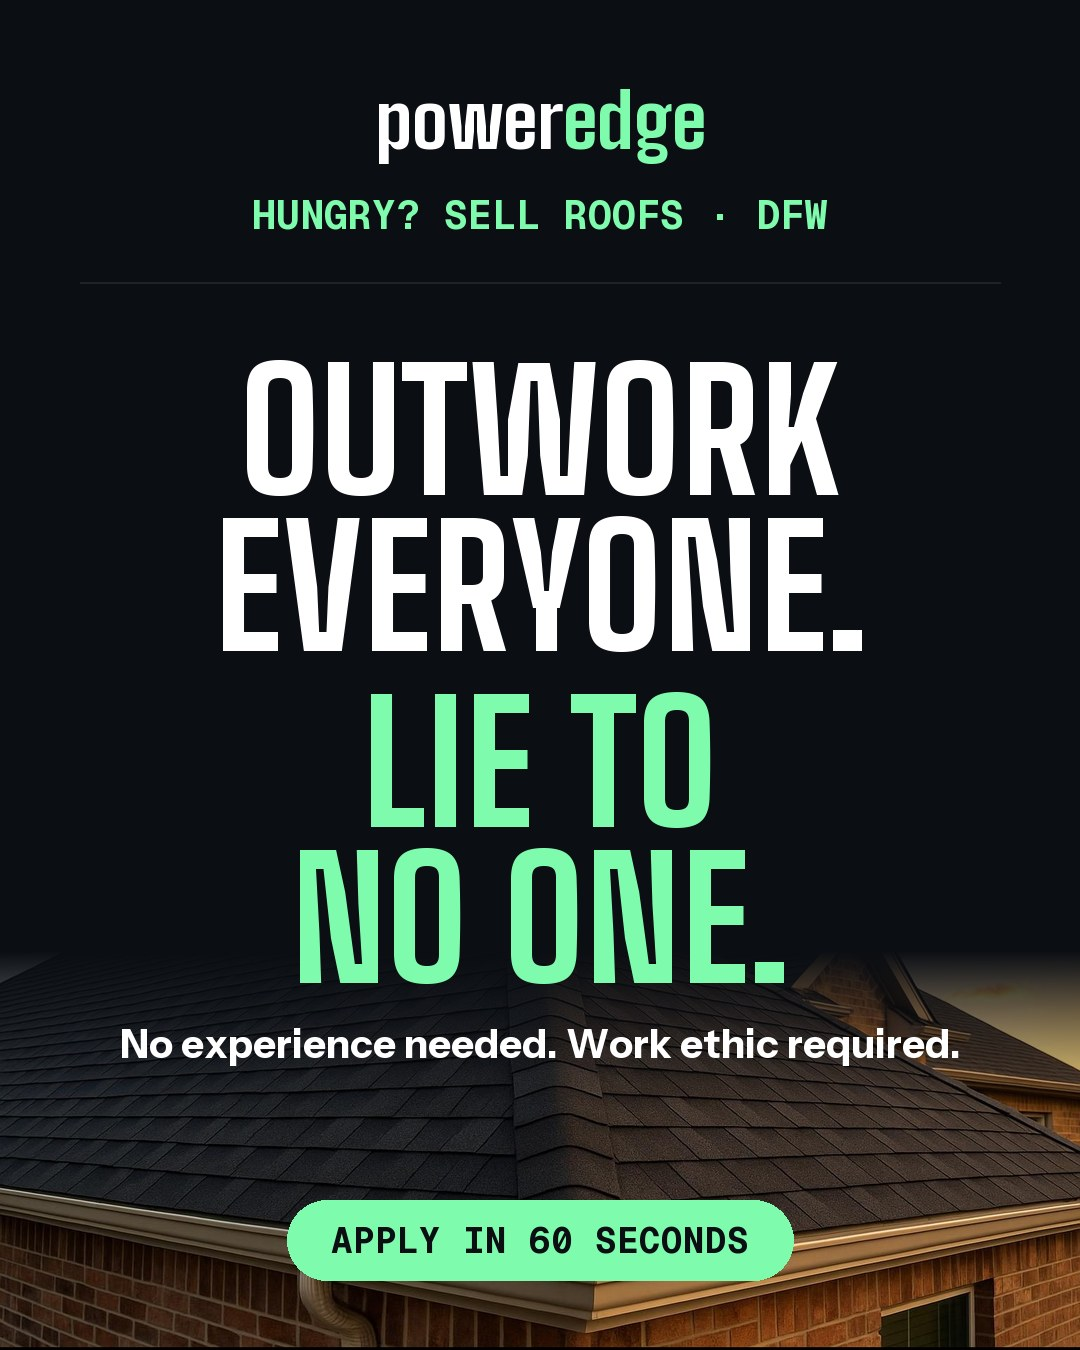
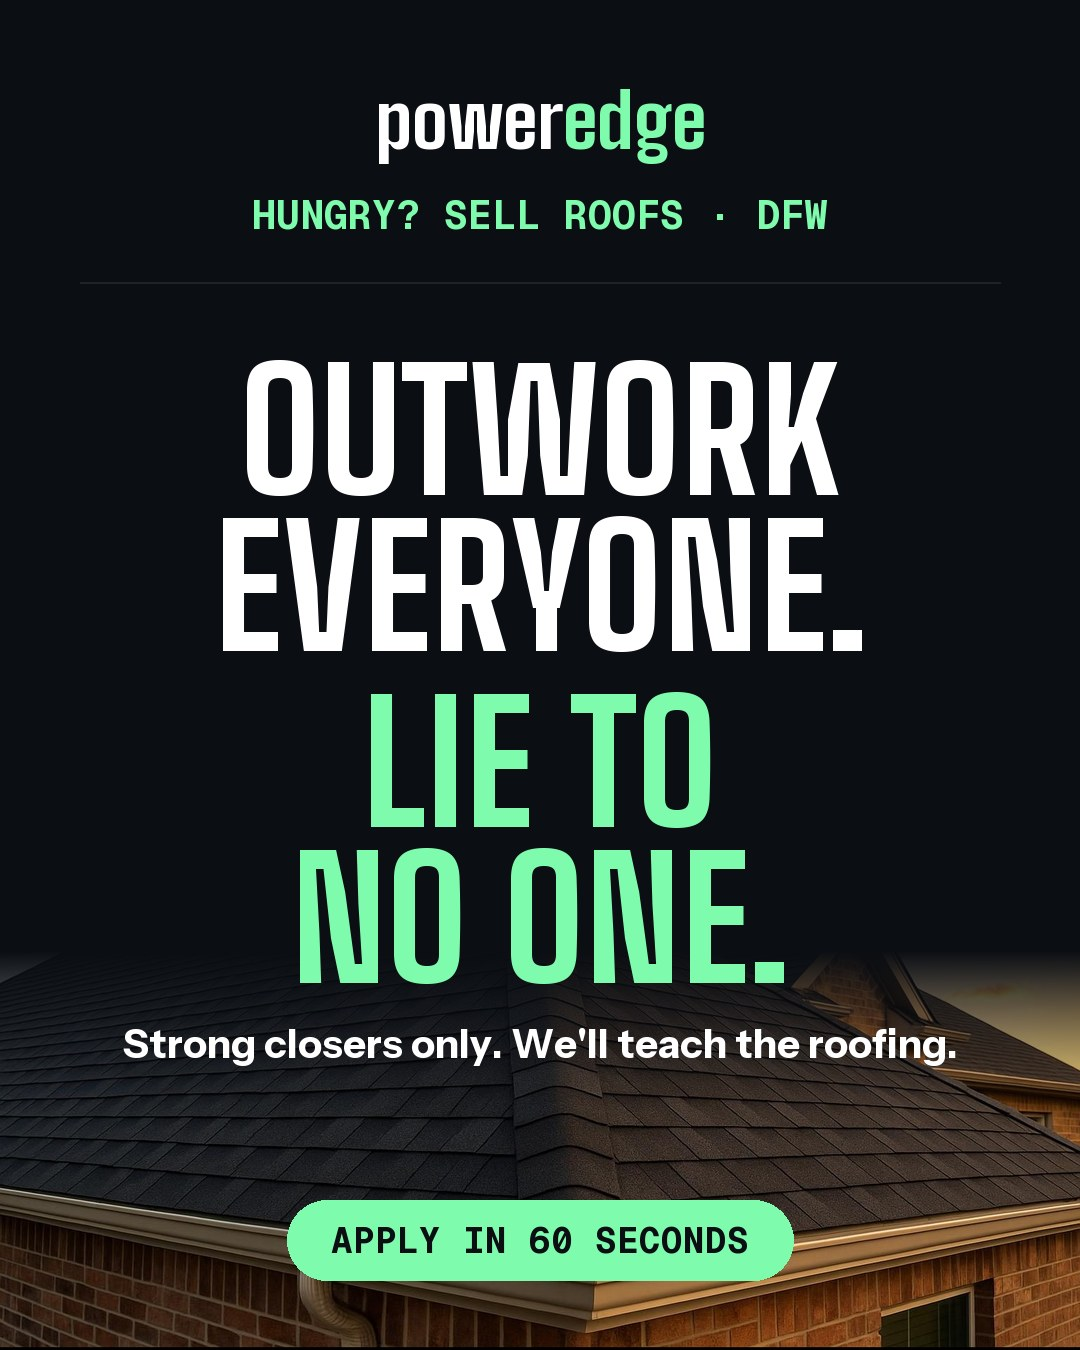
Recruiting bar: strong salespeople required (experience preferred)
Replaces "no experience needed / hungry rookies get trained" across the hype
creative, JD, FB post, and /careers FAQ.

Changed region(s): [[0.0917, 0.7467, 0.8861, 0.8089]]

diff --git a/app/careers/page.tsx b/app/careers/page.tsx
@@ -29,7 +29,7 @@ const faqs = [
   },
   {
     q: "Do I need experience?",
-    a: "Experience helps and pays more, but we'll train hungry closers. What matters most: work ethic, a vehicle, and the drive to knock.",
+    a: "This is a job for strong salespeople. Roofing experience is a plus but not required — if you've closed in solar, pest, alarms, or anywhere else, we'll teach you the roofing fast. Sales experience moves you to the front of the line.",
   },
 ];
 

diff --git a/print/RECRUITING-KIT.md b/print/RECRUITING-KIT.md
@@ -4,54 +4,45 @@ All roads lead to **poweredgetx.com/careers** (60-second apply, no résumé). Ap
 ---
 
 ## 1. Indeed / ZipRecruiter job post (full description)
-**Title:** Storm Restoration Sales Representative (Roofing) — Commission + Per-Roof Floor, Paid Weekly · Dallas–Fort Worth
-
+**Title:** Roofing Sales Representative, Storm Restoration (Weekly Pay)
+**Pay field:** $60,000 - $180,000 a year · Commission
 **Job type:** Contract (1099) · Commission · Full-time or part-time
-**Location:** Dallas–Fort Worth metroplex (field-based)
+**Location:** Dallas-Fort Worth metroplex (field-based)
 
-### About PowerEdge
-PowerEdge is a licensed and insured Dallas–Fort Worth storm-restoration roofing company. We run four crews with capacity for roughly 100 roofs a month, hold a 4.7★ Google rating, and we're built around one idea most storm shops only pretend to have: do it by the book and tell homeowners the truth — even when the truth is "your roof is fine." That reputation is what keeps your customers referring and your commissions clean.
+### The deal, up front
+You already know how to sell roofs. The question is whether your shop deserves you.
+
+- **50% of gross profit on self-generated deals.** A typical DFW roof pays **$4,000-$6,500 in commission**
+- **Paid weekly, with a large share at the FIRST insurance check.** Not months later at completion
+- **A floor on every approved roof.** A win never pays zero, even on a thin deal
+- **Protected territory.** We don't stack ten reps on the same street
+- **Ground floor.** We're scaling fast; early reps pick territory and inherit the org chart
+
+Reps closing 2-3 roofs a month typically earn **$9K-$13K/month**; storm-season producers run well beyond that. We'll walk you through the full deal math in the interview. Bring a calculator and pressure-test us.
+
+### Why experienced reps move here
+- **Supplementing is dialed in.** Your commission is 50% of gross profit, so we fight for the full scope, not the adjuster's first offer. Starter, drip edge, I&W, ridge vent: documented and claimed. Your GP reflects the real job.
+- **Builds run fast.** Four crews, capacity for ~100 roofs a month. Fast builds mean your back-half commissions release fast. No six-month pipeline of unpaid deals.
+- **No games.** No house-account skimming, no surprise chargebacks, no "the check's coming." Weekly means weekly.
+- **The tech actually closes.** Storm data maps hail by street so you knock where damage is. At the door: a 60-second claim check against NWS records, satellite roof measurement, and deductible financing from $250 down to kill the cost objection.
+- **Inbound feeds producers.** Website, ads, and tracked door-hanger QR codes route leads to reps who close.
+- **A brand that protects your name.** Licensed and insured, 4.7★ on Google, and known for telling homeowners the truth, even "your roof is fine." Your customers refer; your commissions stay clean.
 
 ### The role
-You'll be the face of PowerEdge in storm-hit neighborhoods across DFW. This is door-to-door storm restoration sales: finding hail-damaged roofs, getting homeowners a free documented inspection, and walking them from "I think we might have damage" to a signed agreement and a scheduled build.
-
-**What you'll actually do day to day:**
-- Canvass storm-affected neighborhoods — guided by our storm data, which maps recent hail by street so you knock where the damage is, not blind
-- Run our claim-check tool at the door (60-second address lookup against National Weather Service records) to open honest conversations
-- Schedule and attend free roof inspections; learn to identify and photograph hail/wind damage (we train you)
-- Walk homeowners through the insurance-claim process the legal way — we document and coordinate with adjusters; we never pose as adjusters or touch deductibles
-- Present financing options (deductible plans from $250 down) to remove the cost objection
-- Attend adjuster meetings on your deals; keep your pipeline updated; follow your jobs through build day and ask for referrals
-
-### The comp — with the actual math
-Commission-only, 1099, paid weekly. We pay a large share at the **first insurance check**, not months later at completion.
-
-- **Self-generated deals: up to 50% of gross profit.** On a typical DFW roof, that's roughly **$2,500–$3,000 per roof**.
-- **Company-provided leads: ~30% of gross profit** (website, ads, and inbound calls get distributed to producing reps).
-- **Per-roof floor:** every approved roof pays you a minimum floor — a thin-margin deal never pays zero.
-- **Realistic production:** new reps closing 2–3 roofs/month typically earn **$5,000–$9,000/month**; experienced storm reps closing 5–8/month earn **$15,000–$25,000/month**. Big hail months run higher. (Earnings depend entirely on production — this is commission sales, and we won't pretend otherwise.)
-- **Experienced closers:** ask about ramp support while you build your pipeline.
-
-### What we give you (that other shops don't)
-- **Storm-targeted knock lists** — NWS hail data mapped to neighborhoods, refreshed after every storm
-- **Protected territory** — you're not fighting ten teammates for the same street
-- **Closing tech** — instant claim-check, satellite roof measurement, and deductible financing from $250 down, all working at the doorstep
-- **Inbound leads** — our website, ads, and tracked door-hanger QR codes feed producing reps
-- **A company that delivers** — four crews, fast builds, honest inspections; your reputation is safe attaching your name to us
-- **Print & digital tools** — professional door hangers, yard signs, and a personal tracked QR code so your knocks credit to you
+Door-to-door storm restoration sales across DFW: canvass storm-hit neighborhoods guided by our hail data, open honest conversations with the claim-check tool, run free documented inspections (we train the roof work), walk homeowners through the claim the legal way (we document and coordinate with adjusters, never pose as them, never touch deductibles), present financing, attend adjuster meetings on your deals, and follow your builds through to referrals.
 
 ### What it takes
-- Grit. This is door-knocking in Texas weather — the money is real and so is the work
-- Reliable vehicle, smartphone, and the ability to climb a ladder after training
-- Coachable and honest — our brand is "no games," and we protect it
-- Sales or D2D experience helps and earns more, but we train hungry rookies
+- Grit. This is door-knocking in Texas weather; the money is real and so is the work
+- Reliable vehicle, smartphone, able to climb a ladder after training
+- Coachable and honest. The "no games" brand is the moat, and we protect it
+- Strong salespeople only. Roofing, solar, pest, alarms, car lots — if you can close, we'll teach the roofing. Experience moves you to the front of the line
 - 18+, authorized to work in the US
 
 ### Growth
-Top producers move into **team lead / sales manager** roles with base pay + override on team gross profit. We're new and scaling fast — the org chart is genuinely open. If you already lead a team, come talk to us about bringing it.
+Top producers move into **team lead / sales manager** with base pay plus an override on team gross profit. Already running a team? Bring it. Let's talk overrides and territory before the org chart fills.
 
 ### How to apply
-60 seconds, no résumé: **poweredgetx.com/careers** — or text **469-277-9594**.
+60 seconds, no résumé: **poweredgetx.com/careers** or text **469-277-9594**. We respond fast; come ready to talk numbers.
 
 *PowerEdge (Power Edge, LLC) engages sales representatives as independent contractors (1099). Commission figures are illustrative examples, not guarantees; earnings depend on individual production. We consider all applicants without regard to race, color, religion, sex, national origin, age, disability, or veteran status.*
 
@@ -62,7 +53,7 @@ DFW closers 👋 — new storm-restoration shop, built by people tired of watchi
 
 Here's the deal: paid at the FIRST check (weekly), a floor on every approved roof so you're never at zero on a win, storm-data that tells you which streets just took hail, protected turf, and closing tools (instant claim check + satellite measurement + deductible financing) that do half the objection-handling for you.
 
-Licensed & insured, 4.7★ on Google, real production capacity (4 crews, ~100 roofs/month). Commission-only 1099. Vets and hungry rookies both welcome — leaders who bring a team, let's talk overrides.
+Licensed & insured, 4.7★ on Google, real production capacity (4 crews, ~100 roofs/month). Commission-only 1099. Strong closers only — leaders who bring a team, let's talk overrides.
 
 60-second apply: poweredgetx.com/careers
 
